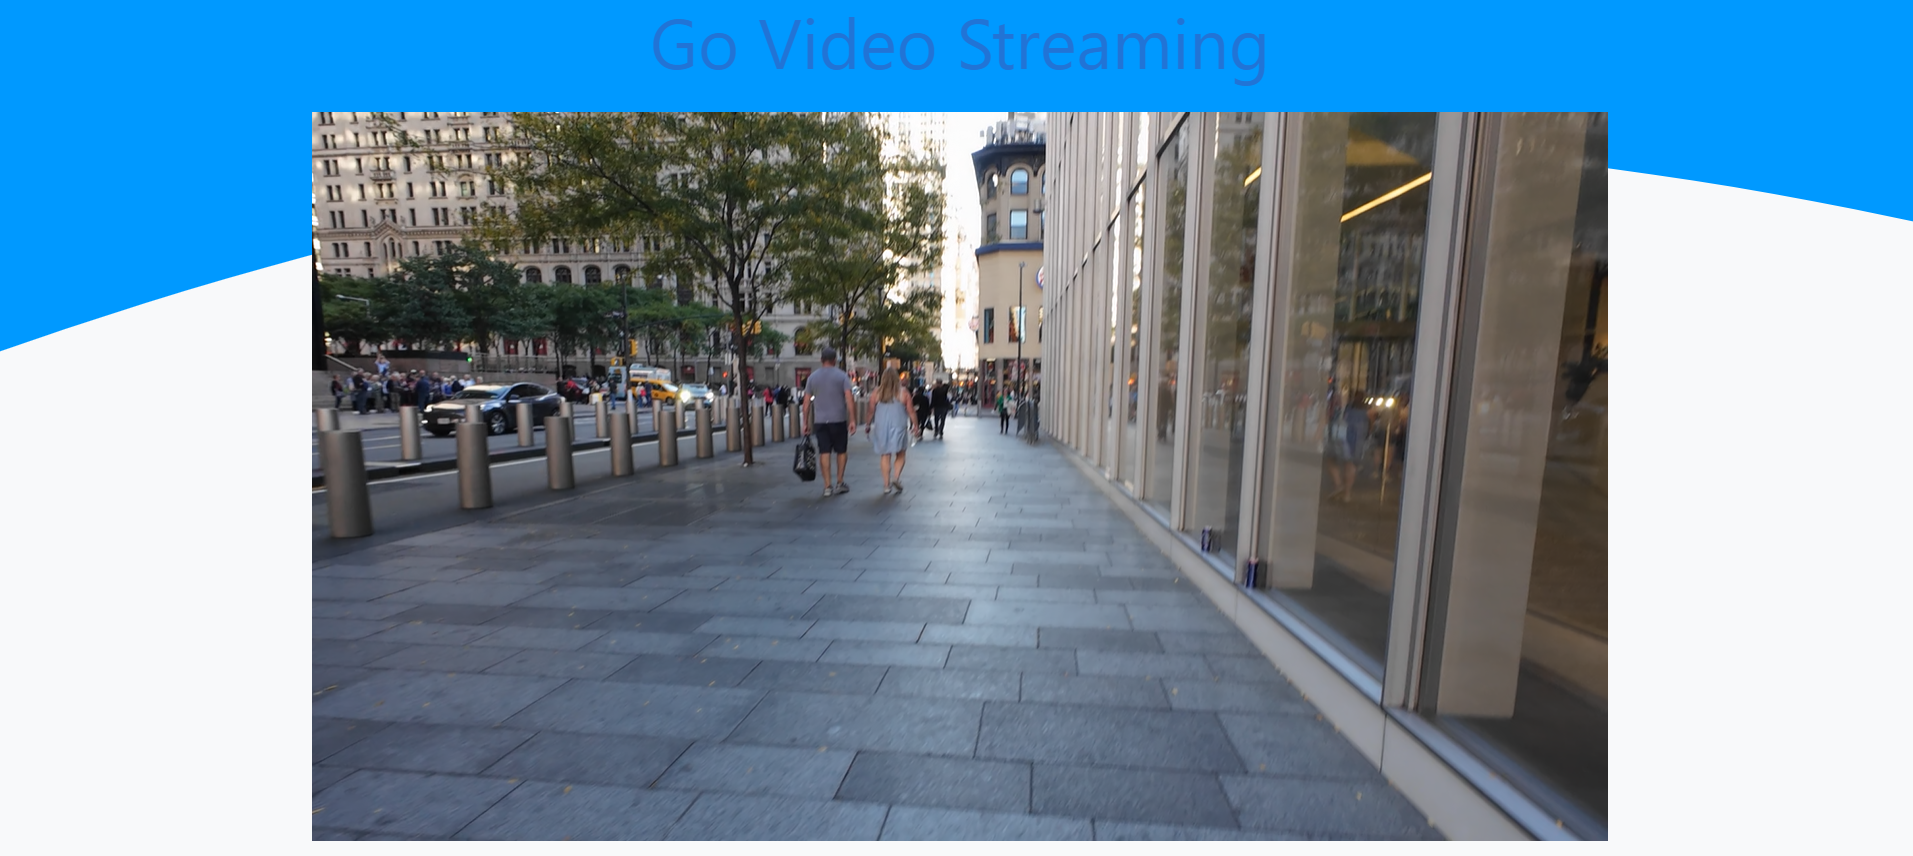
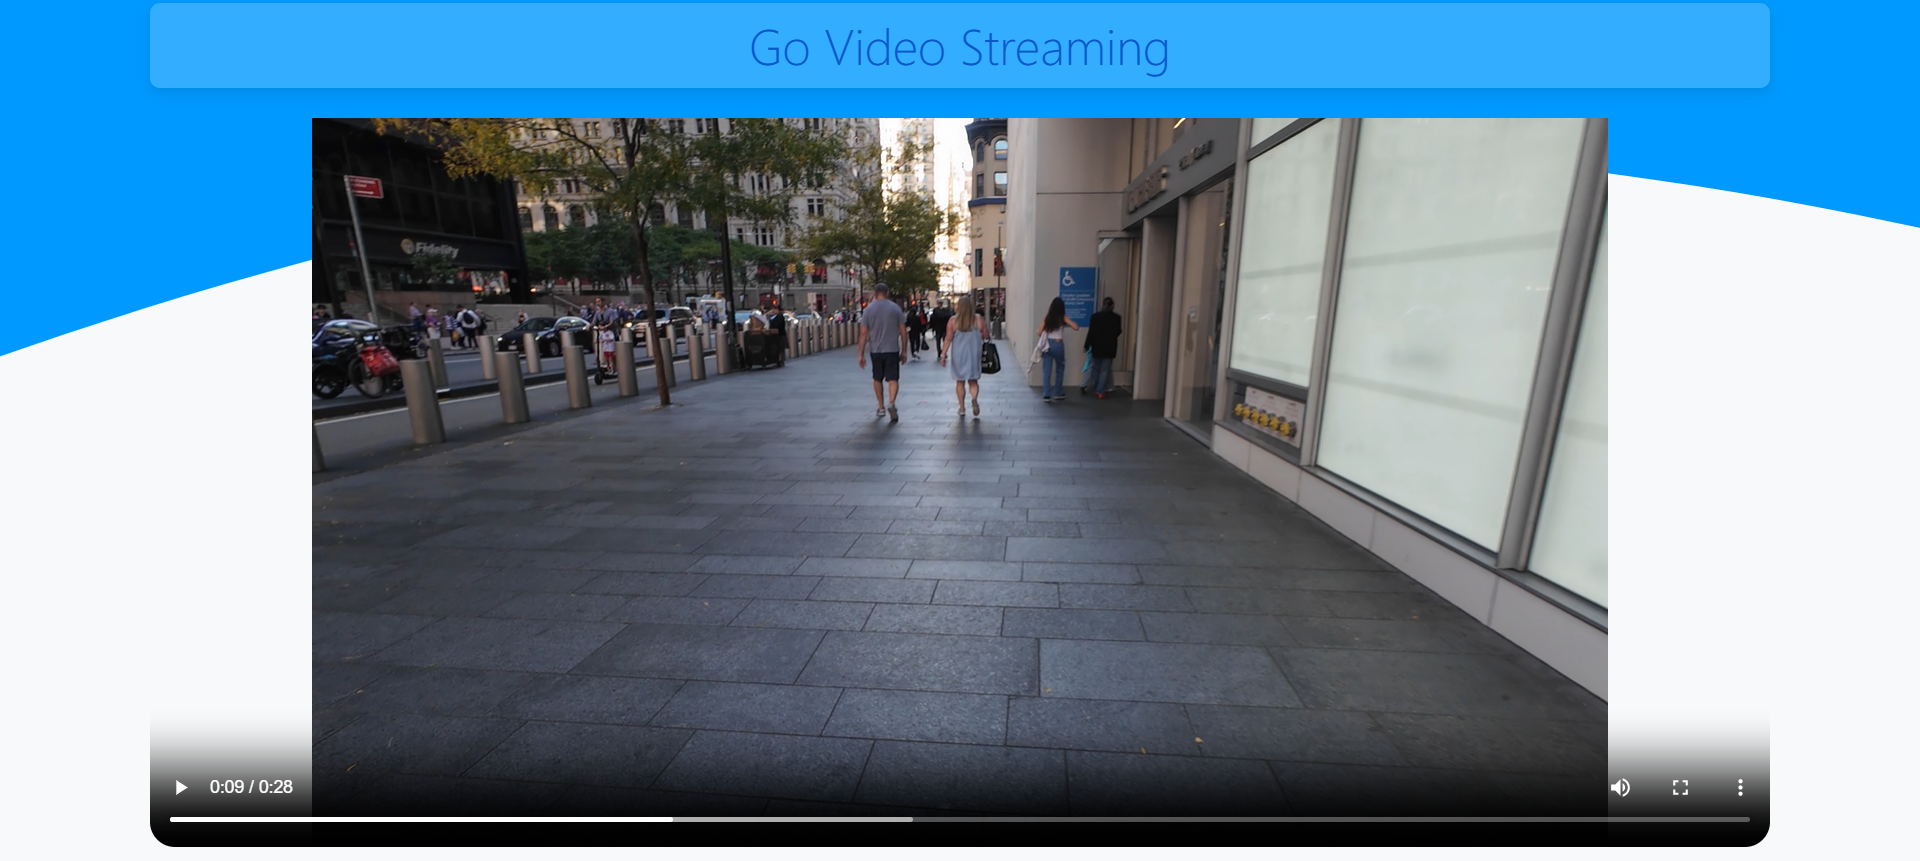
feat: Enhance video player page with new styling for video title and improved layout

diff --git a/internal/handlers/VideoStreamHandler.go b/internal/handlers/VideoStreamHandler.go
@@ -85,15 +85,26 @@ func VideoPlayerPage(res http.ResponseWriter, req *http.Request) {
 				video {
 					border-radius: 20px;
 				}
+				.video-title {
+					color: #0a58ca;
+					border-radius: 10px;
+					padding: 10px 20px; /* Add some padding for spacing */
+					background: rgba(255, 255, 255, 0.2); /* Semi-transparent background */
+					backdrop-filter: blur(10px); /* Adjust the blur intensity */
+					border-radius: 8px; /* Optional rounded corners */
+					box-shadow: 0 4px 10px rgba(0, 0, 0, 0.1); /* Optional shadow for depth */
+				}
 			</style>
 			</head>
 				<body class="bg-light main-bg d-flex justify-content-center align-items-center vh-100">
 					<div class="container text-center">
-						<h1 class="display-4 mb-4" style="color: #f8f9fa; mix-blend-mode: difference;">Go Video Streaming</h1>
+						<h1 class="display-6 mb-4 video-title">
+							Go Video Streaming
+						</h1>
 						
 						<div class="">
 							<div class="ratio mb-3" style="--bs-aspect-ratio: 45%;">
-								<video controls>
+								<video controls playsinline>
 									<source src="{{.Path}}" type="video/mp4" >
 									Your browser does not support the video tag.
 								</video>
